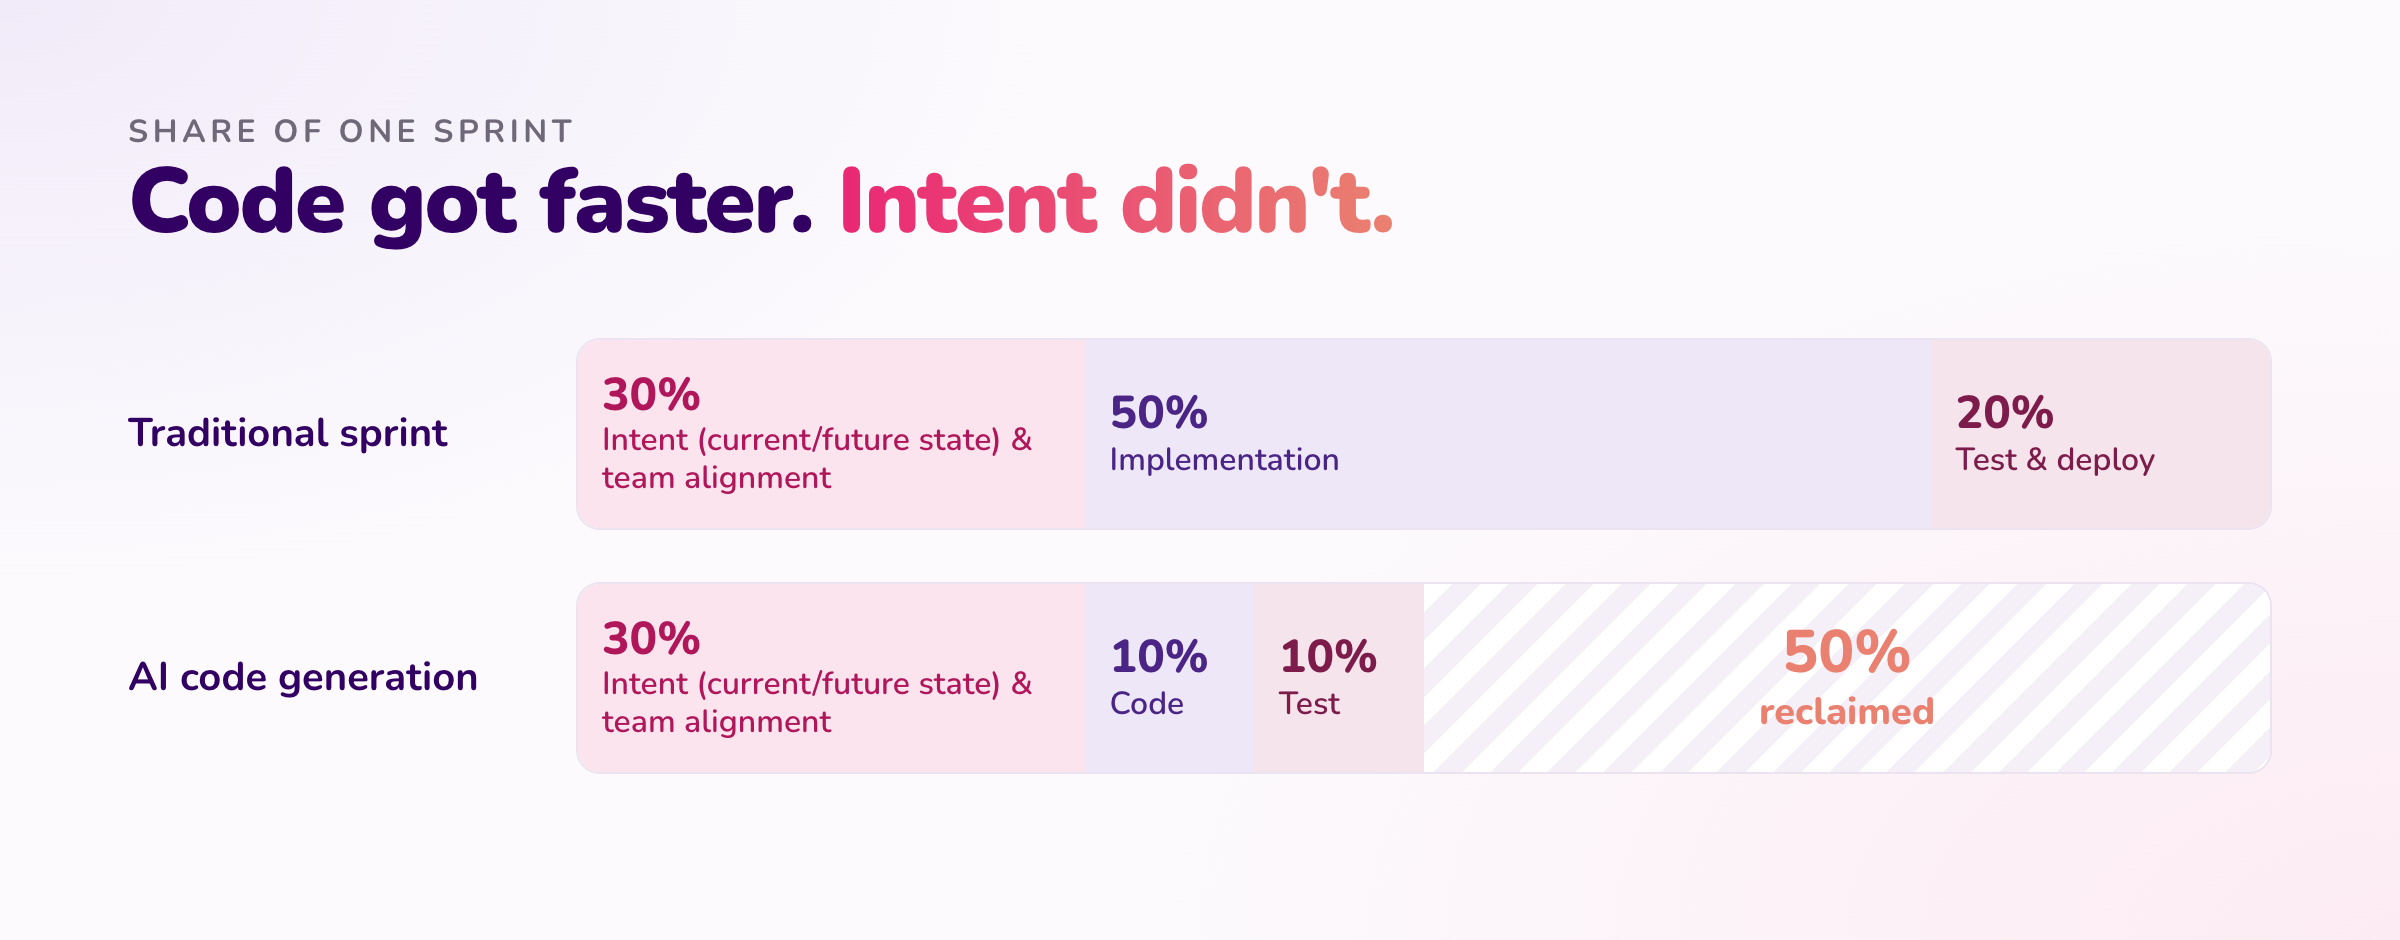
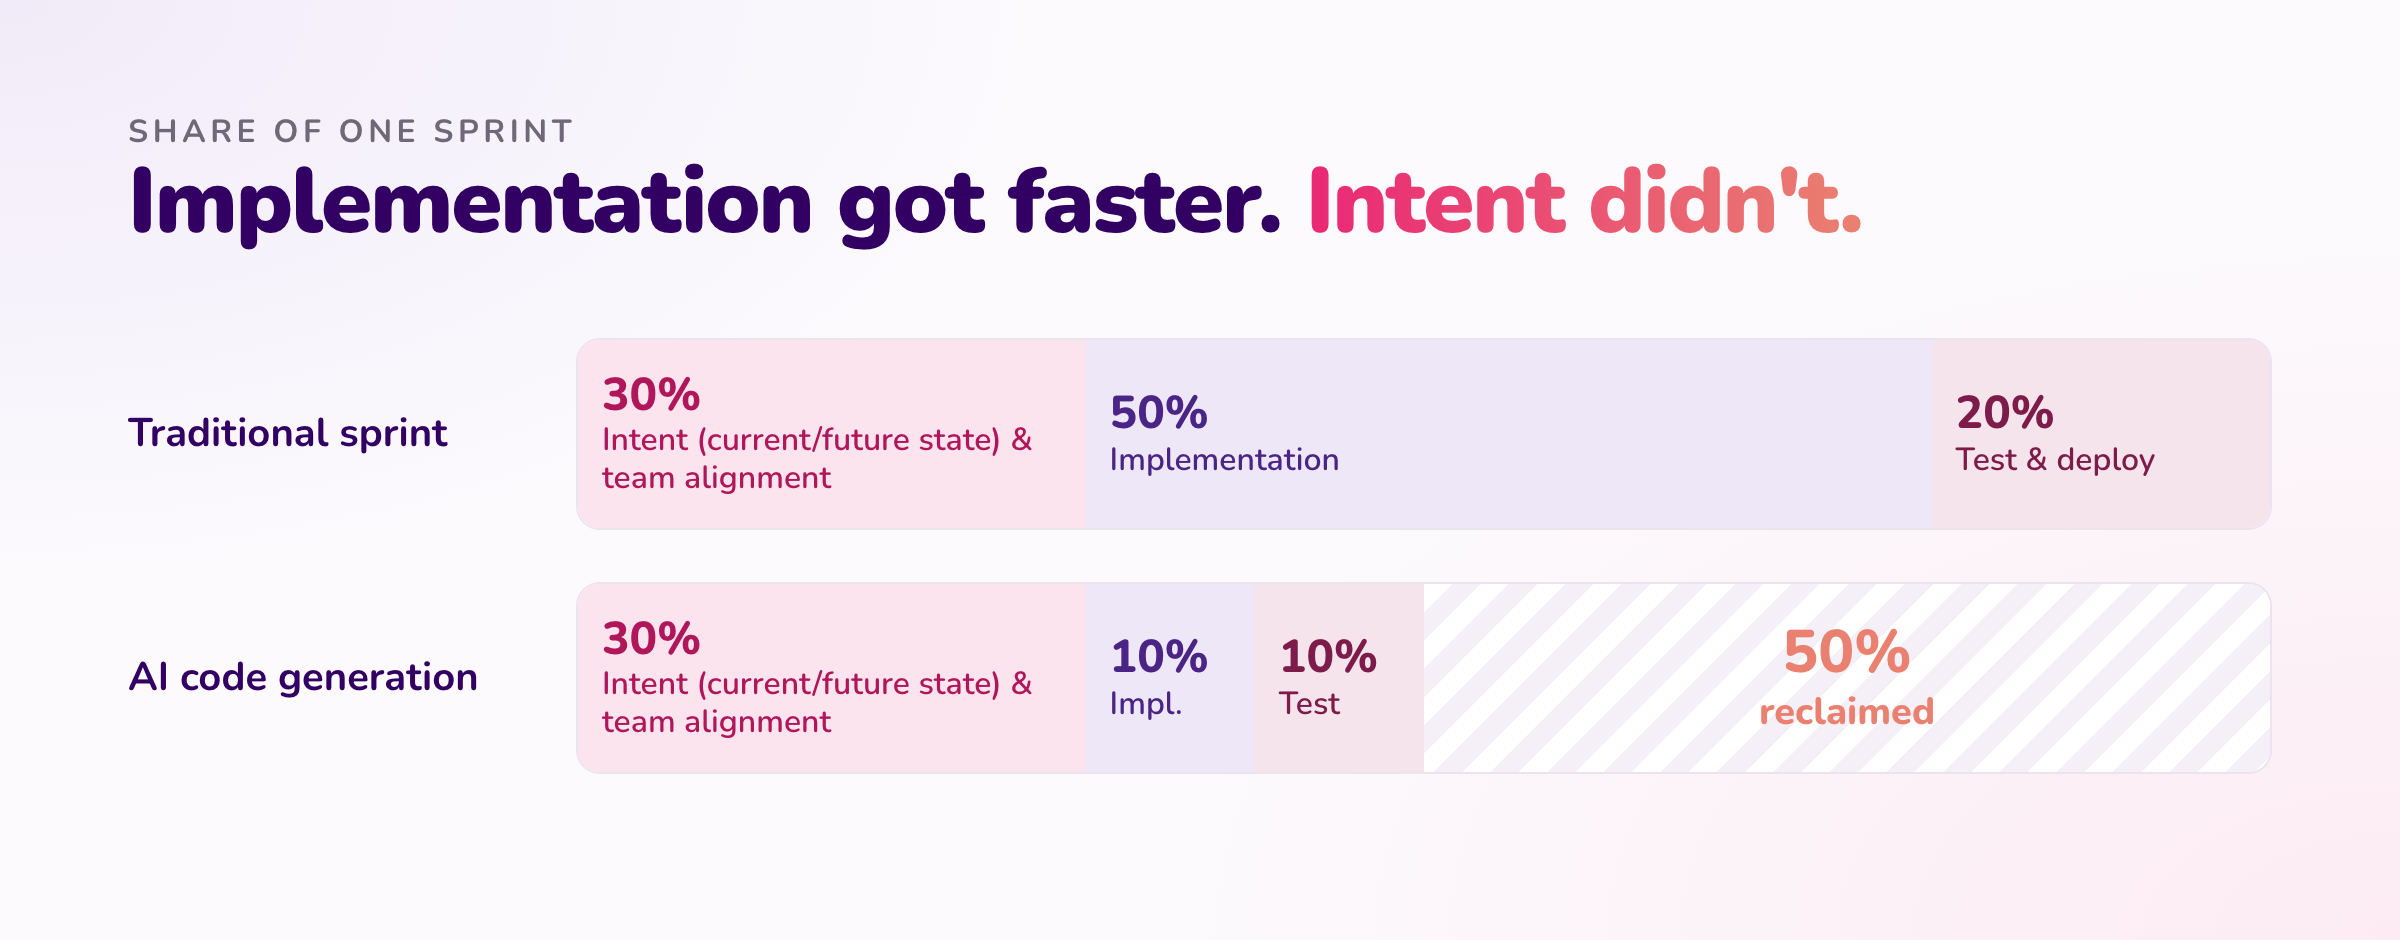
fix: label the shrunk slice Impl., not Code

Changed region(s): [[0.0625, 0.1543, 0.7812, 0.2777], [0.4688, 0.7404, 0.5, 0.7713]]

diff --git a/image-src/ai-first-sdlc/sprint-reclaimed.html b/image-src/ai-first-sdlc/sprint-reclaimed.html
@@ -15,4 +15,4 @@
 </style></head><body data-size="1200x600"><div class="frame">
 <div class="eyebrow">Share of one sprint</div>
 <div class="title">Now the slice that never moved, <span class="accent">moves.</span></div>
-<div class="rows"><div class="r"><div class="name">Traditional sprint</div><div class="bar"><div class="seg intent wrap" style="width:30%"><b>30%</b>Intent (current/future state) &amp; team alignment</div><div class="seg dev" style="width:50%"><b>50%</b>Implementation</div><div class="seg test" style="width:20%"><b>20%</b>Test &amp; deploy</div></div></div><div class="r"><div class="name">AI code generation</div><div class="bar"><div class="seg intent wrap" style="width:30%"><b>30%</b>Intent (current/future state) &amp; team alignment</div><div class="seg dev" style="width:10%"><b>10%</b>Code</div><div class="seg test" style="width:10%"><b>10%</b>Test</div><div class="seg free" style="width:50%"><b>50%</b>reclaimed</div></div></div><div class="r"><div class="name">Full AI-First SDLC<small>intent in the spec</small></div><div class="bar"><div class="seg intent" style="width:10%"><b>10%</b>Intent</div><div class="seg dev" style="width:10%"><b>10%</b>Code</div><div class="seg test" style="width:10%"><b>10%</b>Test</div><div class="seg free" style="width:70%"><b>70%</b>reclaimed</div></div></div></div></div></body></html>
+<div class="rows"><div class="r"><div class="name">Traditional sprint</div><div class="bar"><div class="seg intent wrap" style="width:30%"><b>30%</b>Intent (current/future state) &amp; team alignment</div><div class="seg dev" style="width:50%"><b>50%</b>Implementation</div><div class="seg test" style="width:20%"><b>20%</b>Test &amp; deploy</div></div></div><div class="r"><div class="name">AI code generation</div><div class="bar"><div class="seg intent wrap" style="width:30%"><b>30%</b>Intent (current/future state) &amp; team alignment</div><div class="seg dev" style="width:10%"><b>10%</b>Impl.</div><div class="seg test" style="width:10%"><b>10%</b>Test</div><div class="seg free" style="width:50%"><b>50%</b>reclaimed</div></div></div><div class="r"><div class="name">Full AI-First SDLC<small>intent in the spec</small></div><div class="bar"><div class="seg intent" style="width:10%"><b>10%</b>Intent</div><div class="seg dev" style="width:10%"><b>10%</b>Impl.</div><div class="seg test" style="width:10%"><b>10%</b>Test</div><div class="seg free" style="width:70%"><b>70%</b>reclaimed</div></div></div></div></div></body></html>

diff --git a/image-src/ai-first-sdlc/sprint-today.html b/image-src/ai-first-sdlc/sprint-today.html
@@ -14,5 +14,5 @@
 .free b{font-size:30px}
 </style></head><body data-size="1200x470"><div class="frame">
 <div class="eyebrow">Share of one sprint</div>
-<div class="title">Code got faster. <span class="accent">Intent didn't.</span></div>
-<div class="rows"><div class="r"><div class="name">Traditional sprint</div><div class="bar"><div class="seg intent wrap" style="width:30%"><b>30%</b>Intent (current/future state) &amp; team alignment</div><div class="seg dev" style="width:50%"><b>50%</b>Implementation</div><div class="seg test" style="width:20%"><b>20%</b>Test &amp; deploy</div></div></div><div class="r"><div class="name">AI code generation</div><div class="bar"><div class="seg intent wrap" style="width:30%"><b>30%</b>Intent (current/future state) &amp; team alignment</div><div class="seg dev" style="width:10%"><b>10%</b>Code</div><div class="seg test" style="width:10%"><b>10%</b>Test</div><div class="seg free" style="width:50%"><b>50%</b>reclaimed</div></div></div></div></div></body></html>
+<div class="title">Implementation got faster. <span class="accent">Intent didn't.</span></div>
+<div class="rows"><div class="r"><div class="name">Traditional sprint</div><div class="bar"><div class="seg intent wrap" style="width:30%"><b>30%</b>Intent (current/future state) &amp; team alignment</div><div class="seg dev" style="width:50%"><b>50%</b>Implementation</div><div class="seg test" style="width:20%"><b>20%</b>Test &amp; deploy</div></div></div><div class="r"><div class="name">AI code generation</div><div class="bar"><div class="seg intent wrap" style="width:30%"><b>30%</b>Intent (current/future state) &amp; team alignment</div><div class="seg dev" style="width:10%"><b>10%</b>Impl.</div><div class="seg test" style="width:10%"><b>10%</b>Test</div><div class="seg free" style="width:50%"><b>50%</b>reclaimed</div></div></div></div></div></body></html>

diff --git a/src/data/blog/ai-first-sdlc.md b/src/data/blog/ai-first-sdlc.md
@@ -34,7 +34,7 @@ Take a traditional sprint. Roughly 30% of it goes to working out the intent (the
 
 With AI-accelerated code generation, the implementation and testing slices shrink to about 10% each. That frees up half the sprint. **But the intent-and-alignment slice, still 30%, hasn't moved at all.**
 
-![Share of one sprint: traditional (30% intent and team alignment, 50% implementation, 20% test and deploy) versus AI code generation (30% intent, 10% code, 10% test, 50% reclaimed)](../../assets/images/posts/ai-first-sdlc/sprint-today.png)
+![Share of one sprint: traditional (30% intent and team alignment, 50% implementation, 20% test and deploy) versus AI code generation (30% intent, 10% implementation, 10% test, 50% reclaimed)](../../assets/images/posts/ai-first-sdlc/sprint-today.png)
 
 Code generation and requirements capture have to speed up *together*. If requirements stay the bottleneck, they eat into the gains from faster code. Speed up both and the gains compound, because each one reinforces the other.
 
